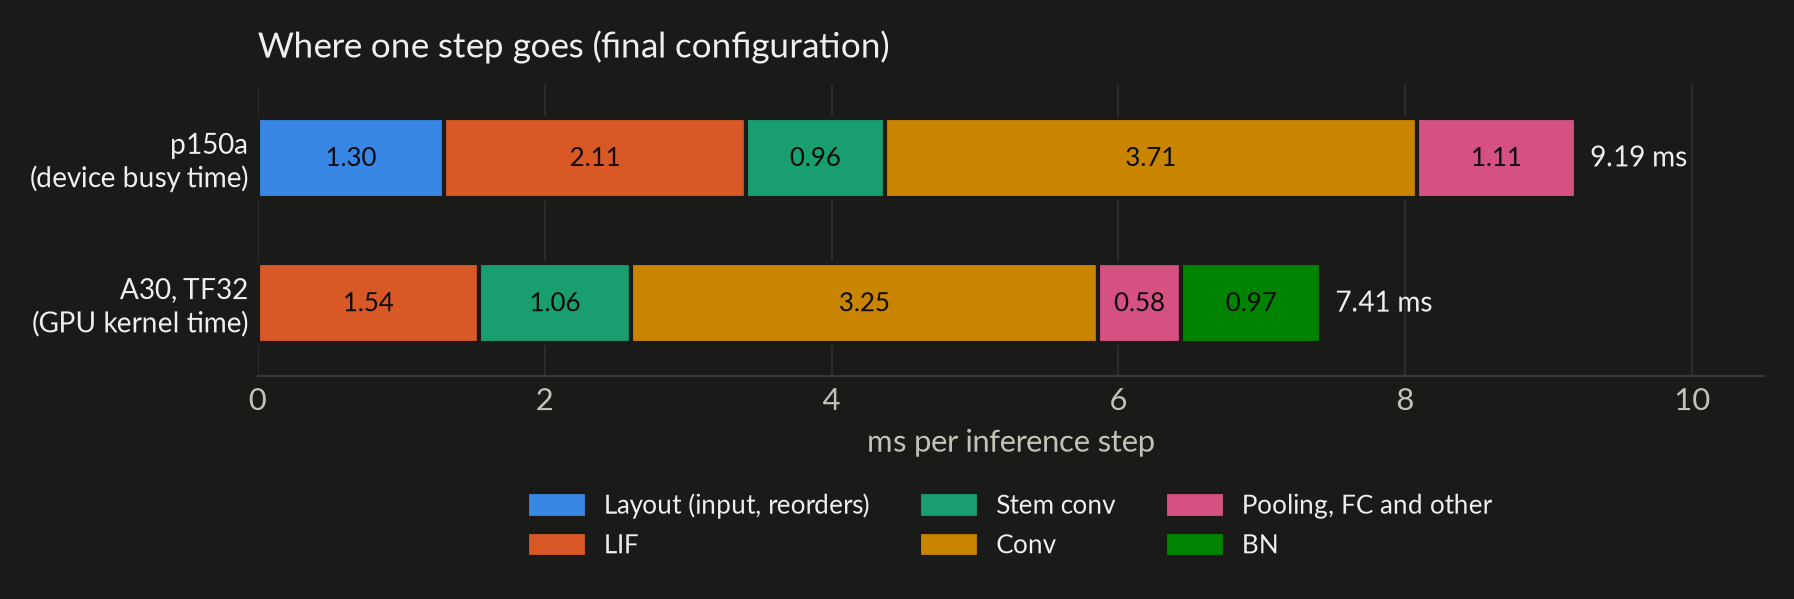
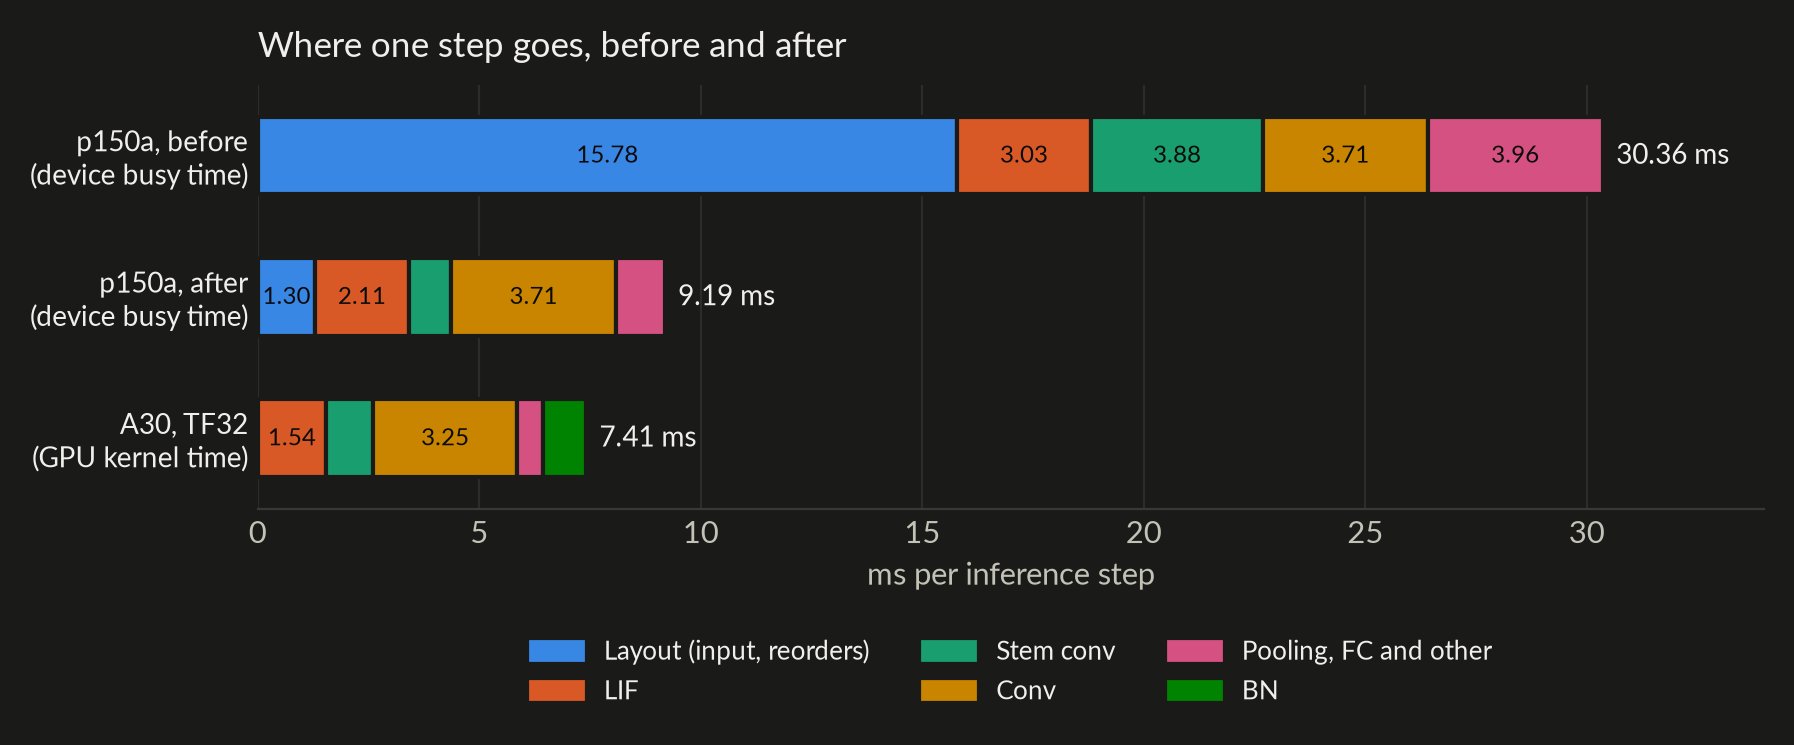
Make the figures show before and after
The step-time figure marks the original SimpleLIFNode stage as before (gray) and the final configuration as after
(dark blue), labels each stage in between as a cumulative change, and states the 23.6x speed-up. The breakdown
figure adds the earliest p150a stage that has a breakdown (the LIF kernel called in the conv output order, 31.39 ms
per step); the READMEs say why the original 222.8 ms stage has none.

diff --git a/README_ja.md b/README_ja.md
@@ -9,8 +9,10 @@ SpikingJelly 2.0 の SEW-ResNet18 の推論を、Tenstorrent Blackhole p150a で
 
 <picture>
   <source media="(prefers-color-scheme: dark)" srcset="docs/figures/step-times-dark.png">
-  <img alt="変更ごとの 1 ステップの時間。222.8 ms から 9.44 ms まで下がり、A30（TF32）の 7.52 ms に近づく" src="docs/figures/step-times-light.png" width="800">
+  <img alt="変更前と変更後の 1 ステップの時間。変更前（元の SimpleLIFNode）は 222.8 ms、すべての変更を入れた後は 9.44 ms で 23.6 倍速く、A30（TF32）の 7.52 ms に近づく。途中の棒は変更を 1 つずつ積み重ねた時間" src="docs/figures/step-times-light.png" width="800">
 </picture>
+
+灰色の棒が変更前、濃い青の棒がすべての変更を入れた後。途中の棒は、それより上の変更をすべて含む。
 
 ## 動機と手法、主張範囲
 Tenstorrent Blackholeアーキテクチャは、格子状に並べたコアを2次元トーラスのNoC（2系統）でつないだ分散メモリのメニコアAIアクセラレータであり、この特徴はNeuromorphic ProcessorであるIntel Loihi/Loihi2に類似している。
@@ -43,14 +45,16 @@ TenstorrentハードウェアとSNNの相性について判断するためには
 | （参考）A30、TF32 と `cudnn.benchmark` | 7.52 ms | 7.63 ms |
 | （参考）A30、SpikingJelly のベンチマークと同じ厳密な fp32 | 14.75 ms | — |
 
-最後の構成での、1 ステップの時間の内訳は次のとおり。
+変更前と変更後の、1 ステップの時間の内訳は次のとおり。
 
 <picture>
   <source media="(prefers-color-scheme: dark)" srcset="docs/figures/breakdown-dark.png">
-  <img alt="最後の構成の 1 ステップの内訳。p150a は conv 3.71 ms、LIF 2.11 ms、並べ替えなど 1.30 ms、プーリングなど 1.11 ms、stem の conv 0.96 ms。A30 は conv 3.25 ms、LIF 1.54 ms、stem の conv 1.06 ms、BN 0.97 ms、プーリングなど 0.58 ms" src="docs/figures/breakdown-light.png" width="800">
+  <img alt="1 ステップの内訳。p150a の変更前は並べ替えなど 15.78 ms、プーリングなど 3.96 ms、stem の conv 3.88 ms、conv 3.71 ms、LIF 3.03 ms。変更後は conv 3.71 ms、LIF 2.11 ms、並べ替えなど 1.30 ms、プーリングなど 1.11 ms、stem の conv 0.96 ms。A30 は conv 3.25 ms、LIF 1.54 ms、stem の conv 1.06 ms、BN 0.97 ms、プーリングなど 0.58 ms" src="docs/figures/breakdown-light.png" width="800">
 </picture>
 
-p150a の値は、tt-xla が出力した TTNN の IR を演算ごとにデバイスで再実行し、測定した稼働時間の和（9.19 ms。実測の 1 ステップは 9.44 ms）。再実行にはコンテナ内の tt-metal を用いた。tt-xla が用いる tt-metal とはバージョンが異なるため、目安の値である。A30 の値は torch.profiler で測定した GPU のカーネル時間の和（7.41 ms。実測は 7.52 ms）。p150a では、BN は conv に統合され、残差結合の加算は LIF と融合されている。
+変更前の棒は、内訳を最初に測定した段階（LIF をカーネル化し、conv の出力の順序で呼び出した段階。表の 3 行目で、測定し直した 1 ステップは 31.39 ms）。元の `SimpleLIFNode` の段階（222.8 ms）はホストのディスパッチが律速しており、IR の再実行による内訳は測定していない。
+
+p150a の値は、tt-xla が出力した TTNN の IR を演算ごとにデバイスで再実行し、測定した稼働時間の和（変更後 9.19 ms、実測の 1 ステップは 9.44 ms。変更前 30.36 ms）。再実行にはコンテナ内の tt-metal を用いた。tt-xla が用いる tt-metal とはバージョンが異なるため、目安の値である。A30 の値は torch.profiler で測定した GPU のカーネル時間の和（7.41 ms。実測は 7.52 ms）。p150a では、BN は conv に統合され、残差結合の加算は LIF と融合されている。
 
 ### 結果の解釈上の注意
 

diff --git a/README.md b/README.md
@@ -11,8 +11,10 @@ kernel written in tt-lang.
 
 <picture>
   <source media="(prefers-color-scheme: dark)" srcset="docs/figures/step-times-dark.png">
-  <img alt="Time per step after each change: from 222.8 ms down to 9.44 ms, close to the A30's 7.52 ms with TF32" src="docs/figures/step-times-light.png" width="800">
+  <img alt="Time per step before and after: 222.8 ms before (the original SimpleLIFNode) and 9.44 ms after all changes, 23.6 times faster and close to the A30's 7.52 ms with TF32. The bars in between add the changes one at a time" src="docs/figures/step-times-light.png" width="800">
 </picture>
+
+The gray bar is before, the dark blue bar is after all changes. Each bar in between includes every change above it.
 
 ## Motivation, method and scope
 
@@ -56,15 +58,19 @@ mode.
 | (reference) A30, TF32 and `cudnn.benchmark` | 7.52 ms | 7.63 ms |
 | (reference) A30, strict fp32 as in SpikingJelly's benchmark | 14.75 ms | — |
 
-Where the time of one step goes in the final configuration:
+Where the time of one step goes, before and after:
 
 <picture>
   <source media="(prefers-color-scheme: dark)" srcset="docs/figures/breakdown-dark.png">
-  <img alt="Breakdown of one step in the final configuration. p150a: conv 3.71 ms, LIF 2.11 ms, layout 1.30 ms, pooling and other 1.11 ms, stem conv 0.96 ms. A30: conv 3.25 ms, LIF 1.54 ms, stem conv 1.06 ms, BN 0.97 ms, pooling and other 0.58 ms" src="docs/figures/breakdown-light.png" width="800">
+  <img alt="Breakdown of one step. p150a before: layout 15.78 ms, pooling and other 3.96 ms, stem conv 3.88 ms, conv 3.71 ms, LIF 3.03 ms. p150a after: conv 3.71 ms, LIF 2.11 ms, layout 1.30 ms, pooling and other 1.11 ms, stem conv 0.96 ms. A30: conv 3.25 ms, LIF 1.54 ms, stem conv 1.06 ms, BN 0.97 ms, pooling and other 0.58 ms" src="docs/figures/breakdown-light.png" width="800">
 </picture>
 
-The p150a values are device busy times measured by replaying the TTNN IR written by tt-xla op by op (sum 9.19 ms; the
-step takes 9.44 ms). The replay used the tt-metal in a container, which is a different version from the one tt-xla
+The "before" bar is the first stage at which the breakdown was measured: the LIF as a kernel, called in the dimension
+order of the conv output (the third row of the table; re-measured at 31.39 ms per step). The original `SimpleLIFNode`
+stage (222.8 ms) was bound by host dispatch, and its breakdown was not measured by replaying the IR.
+
+The p150a values are device busy times measured by replaying the TTNN IR written by tt-xla op by op (after: sum 9.19
+ms, the step takes 9.44 ms; before: sum 30.36 ms). The replay used the tt-metal in a container, which is a different version from the one tt-xla
 uses, so treat these as estimates. The A30 values are GPU kernel times from torch.profiler (sum 7.41 ms; the step takes
 7.52 ms). On the p150a, the BNs are folded into the convs and the residual adds are fused into the LIF.
 
